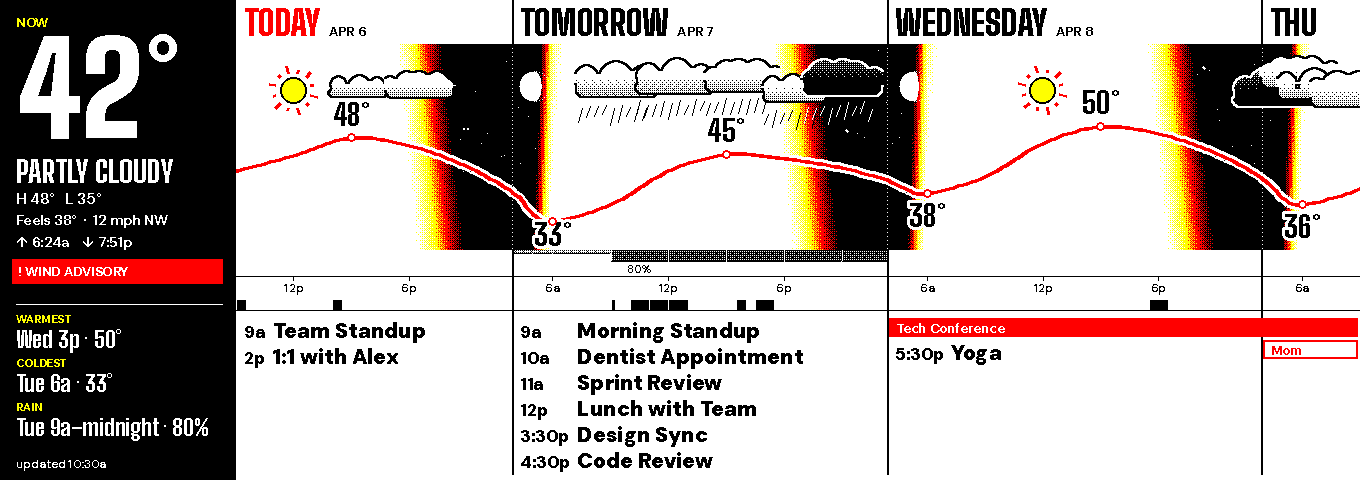
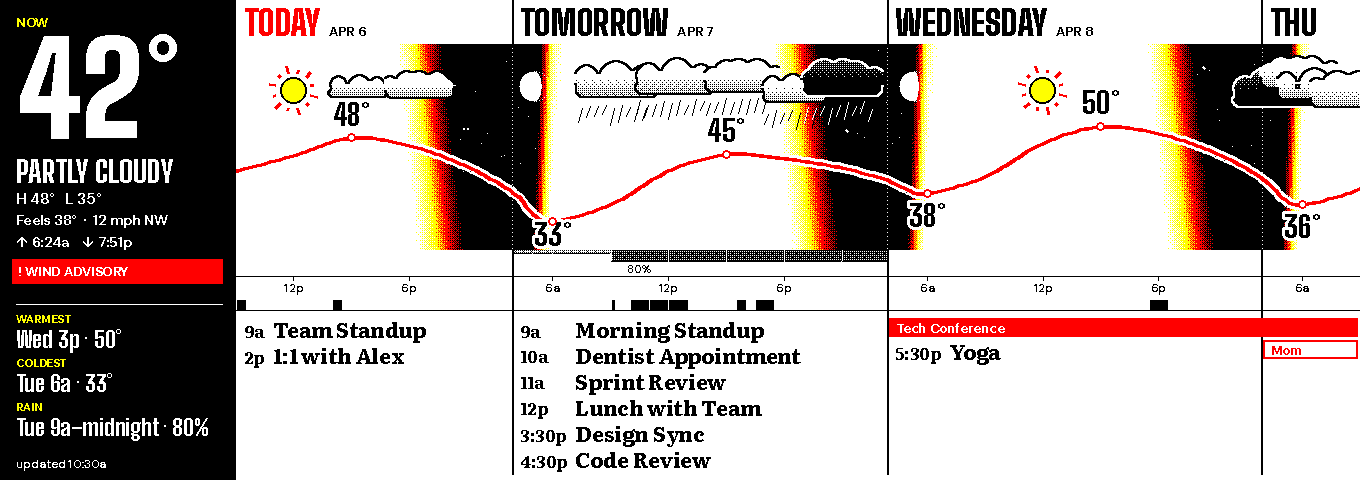
wide_horizon: set event rows in Literata Bold
DM Sans at its axis maximum was heavy but blunt. Literata Bold, the
reading serif the wide_week quote uses, keeps a 4-px stem on 21-px
titles and 3 px on 17-px times on a 1-bit plate (DM Sans Bold at 18 px
set 2 px). Times use Bold too: SemiBold snaps to 2 px below 18 px.
Drops the dm_black / dm_extrablack accessors the previous commit added.

Claude-Session: https://claude.ai/code/session_01KCiLHCYhChC1kojFWGv1dh

diff --git a/tests/test_wide_horizon_theme.py b/tests/test_wide_horizon_theme.py
@@ -662,16 +662,28 @@ class TestDayLists:
         rows = [self._list(img, day.date(), top=i * wh.ROW_H, h=wh.ROW_H) for i in range(6)]
         assert all(r > 100 for r in rows)
 
-    def test_rows_are_set_heavier_than_bold(self):
-        # Read at a glance across a room: the titles are the axis-maximum
-        # weight, which sets visibly more ink than DM Sans Bold at the same size.
+    @staticmethod
+    def _stem(font) -> int:
+        """The median width of an ``l``'s ink rows: its stem, serifs averaged out."""
+        img = Image.new("1", (60, 60), 1)
+        ImageDraw.Draw(img).text((5, 5), "l", font=font, fill=0)
+        widths = sorted(n for n in (ink(img, (0, y, 60, y + 1)) for y in range(60)) if n)
+        return widths[len(widths) // 2]
+
+    def test_rows_are_set_in_literata_with_heavy_stems(self):
+        # Read at a glance across a room: DM Sans Bold at 18 px set a 2-px stem.
+        title, time = fonts.literata_bold(wh.ROW_TITLE_PT), fonts.literata_bold(wh.ROW_TIME_PT)
+        assert self._stem(title) >= 4
+        assert self._stem(time) >= 3
+
+    def test_the_rows_draw_in_literata(self):
         evt = _event("Dentist Appointment", datetime(2026, 4, 7, 14))
         data = DashboardData(events=[evt])
         tue = date(2026, 4, 7)
-        heavy = self._list(_plate(data, mode="L").convert("1"), tue, h=wh.ROW_H)
-        with patch.object(fonts, "dm_extrablack", fonts.dm_bold):
-            bold = self._list(_plate(data, mode="L").convert("1"), tue, h=wh.ROW_H)
-        assert heavy > bold * 1.15
+        lit = self._list(_plate(data, mode="L").convert("1"), tue, h=wh.ROW_H)
+        with patch.object(fonts, "literata_bold", fonts.dm_bold):
+            dm = self._list(_plate(data, mode="L").convert("1"), tue, h=wh.ROW_H)
+        assert lit > dm * 1.15
 
     def test_a_chip_on_another_day_does_not_push_the_list_down(self):
         evt = _event("Dentist", datetime(2026, 4, 7, 14))
@@ -1032,8 +1044,6 @@ class TestFonts:
             fonts.big_shoulders_semibold,
             fonts.big_shoulders_extrabold,
             fonts.big_shoulders_black,
-            fonts.dm_black,
-            fonts.dm_extrablack,
         ],
     )
     def test_loads_and_covers_the_glyphs_used(self, accessor):

diff --git a/src/render/components/wide_horizon_panel.py b/src/render/components/wide_horizon_panel.py
@@ -108,8 +108,11 @@ ALLDAY_H = 22
 STRIP_H = 10
 STRIP_GAP = 8
 # Each day's events listed in its own column, one line apiece.
-# The heaviest DM Sans, a size up: read at a glance across a room. Six
-# rows still fill the band below the strip when no all-day chip crosses it.
+# Literata Bold, a reading serif drawn for e-readers: a 4-px stem on the
+# titles and 3 px on the times on a 1-bit plate, where DM Sans Bold set 2 px
+# and only its blunt axis maximum went heavier. SemiBold would snap the times
+# to 2 px below 18 px (as on wide_week's rail). Six rows still fill the band
+# below the strip when no all-day chip crosses it.
 ROW_H = 26
 ROW_TITLE_PT = 21
 ROW_TIME_PT = 17
@@ -1425,9 +1428,9 @@ def _draw_events(draw, data: DashboardData, axis: TimeAxis, y0: int, y1: int, in
                     )
 
     hidden_by_day = overflow_counts(hidden, axis)
-    title_font = fonts.dm_extrablack(ROW_TITLE_PT)
-    time_font = fonts.dm_black(ROW_TIME_PT)
-    more_font = fonts.dm_black(ROW_TIME_PT)
+    title_font = fonts.literata_bold(ROW_TITLE_PT)
+    time_font = fonts.literata_bold(ROW_TIME_PT)
+    more_font = fonts.literata_bold(ROW_TIME_PT)
 
     def measure_title(t: str) -> float:
         return text_width(draw, t, title_font)

diff --git a/src/render/fonts.py b/src/render/fonts.py
@@ -72,15 +72,6 @@ def dm_bold(size: int) -> ImageFont.FreeTypeFont:
     return _get_dm_sans(size, 700)
 
 
-def dm_black(size: int) -> ImageFont.FreeTypeFont:
-    return _get_dm_sans(size, 900)
-
-
-def dm_extrablack(size: int) -> ImageFont.FreeTypeFont:
-    """The axis maximum (1000): 800 and 900 hint to the same 1-bit stems as 700 at ~20 px."""
-    return _get_dm_sans(size, 1000)
-
-
 # Cinzel — Roman inscription caps, used for the D&D Fantasy theme.
 # Variable font with a single weight axis (wght 400–900).
 @lru_cache(maxsize=32)

diff --git a/CLAUDE.md b/CLAUDE.md
@@ -375,9 +375,9 @@ The cooldown is `display.min_refresh_interval_seconds` (config), defaulting to 6
 | `Oxanium-Variable.ttf` (OFL, variable) | `oxanium`, `oxanium_bold` | `terminal` — dashboard title, day column headers, quote body |
 | `Rajdhani-Regular.ttf` / `Rajdhani-SemiBold.ttf` (OFL) | `rajdhani`, `rajdhani_semibold` | `terminal` — month band, section labels, quote attribution |
 | `Orbitron-Variable.ttf` (OFL, variable) | `orbitron_black` | `terminal` — large today date numeral |
-| `DMSans.ttf` | `dm_regular/medium/semibold/bold/black/extrablack` | `wide_horizon` event rows (`dm_extrablack` titles, `dm_black` times — the axis maximum, since 800 and 900 hint to the same 1-bit stems as 700 at ~20 px), `minimalist`, `weather`, `fuzzyclock`, `diags` (section labels), `countdown`, `astronomy`, `agenda`, `light_cycle`, `constellation_map` (margin) |
+| `DMSans.ttf` | `dm_regular/medium/semibold/bold` | `minimalist`, `weather`, `fuzzyclock`, `diags` (section labels), `countdown`, `astronomy`, `agenda`, `light_cycle`, `constellation_map` (margin) |
 | `PlayfairDisplay-*.ttf` | `playfair_regular/medium/semibold/bold` | `old_fashioned`, `qotd`, `almanac` (body + quote), `wide_week` rail (masthead, temperature, NEXT time, quote mark) |
-| `Literata-SemiBold.ttf` / `Literata-Bold.ttf` (OFL; static instances at opsz 12 cut from the upstream variable font with `fonttools varLib.instancer`) | `literata_semibold`, `literata_bold` | `wide_week` rail — the quote (SemiBold ≥ 18 px, Bold below, via `wide_week_rail_panel.quote_font`) |
+| `Literata-SemiBold.ttf` / `Literata-Bold.ttf` (OFL; static instances at opsz 12 cut from the upstream variable font with `fonttools varLib.instancer`) | `literata_semibold`, `literata_bold` | `wide_week` rail — the quote (SemiBold ≥ 18 px, Bold below, via `wide_week_rail_panel.quote_font`); `wide_horizon` — event rows (Bold throughout) |
 | `Cinzel.ttf` | `cinzel_regular/semibold/bold/black` | `fantasy`, `old_fashioned` section labels, `moonphase`, `almanac` (section labels + small caps) |
 | `CormorantGaramond.ttf` / `CormorantGaramond-Italic.ttf` (OFL, variable) | `cormorant_regular/medium/semibold/italic` | `moonphase` — date, illumination, celestial + weather strips, quote body (italic) |
 | `Tangerine-Regular.ttf` (OFL) | `tangerine_regular` | `moonphase` — calligraphic script quote attribution |
@@ -504,7 +504,7 @@ default to `None` and fall back gracefully so adding a new field never breaks ex
 - **`display.scaling` decides how an off-size canvas reaches the panel** (`fit_canvas()` in `src/display/backend.py`). Every version so far stretched, and `auto` (the default) still does unless `distortion()` — the ratio between the panel's aspect and the canvas's — exceeds `FIT_DISTORTION_THRESHOLD` (4/3): a 4:3 `epd13in3k` is 1.25 and renders byte-identically to before, the 1360×480 strip is 1.7 and fits. `fit` pads with the theme's `bg`, passed to the backend as `background=` in the canvas's own mode (`pad_value()` converts it); `stretch` and `fit` are explicit overrides, and an unknown value behaves as `auto` at render time while `validate_config()` reports it. The backend tests build their config as a `MagicMock`, which is why `resolve_scaling()` treats anything but the two explicit strings as auto rather than raising.
 - **The `wide_*` themes declare a 1360×480 canvas** (`wide_week`, `wide_day`, `wide_forecast`, `wide_horizon`, `wide_night`, `wide_night_invert`, `wide_diags`, `halftone_agenda_wide`) and are the reason previews are rendered at the theme's canvas size when its *shape* differs from the panel's (`scripts/build_previews.py` swaps `cfg.display` width/height for the layout's only on an aspect mismatch — a supersampled 1600×960 canvas keeps the panel's 800×480 and its downsample) — on an 800×480 config they letterbox to a 800×282 band, which is what the pixel-snapshot and idle-tick suites hash. They are kept out of a random rotation on a panel of the other shape: `random_theme.eligible_themes(..., panel=)` drops any theme whose canvas would be fitted with padding there (`theme_fits_panel`, the same `FIT_DISTORTION_THRESHOLD` test `display.scaling: auto` applies), and `services/theme.py` and `validate_config` pass the configured panel. `OutputService` keys its default cooldown on the display spec, not the provider string, so a colour Waveshare model gets Inky's 60 s rather than the mono 0 s. `primitives.next_birthday()` is the one home of the Feb 29 → Feb 28 rollover; `birthday_bar`, `almanac`, `wide_day_panel` and `halftone_agenda_wide_panel` all call it. `wide_week` is the standard `week_view` on the right (920 px, full height, no header) beside `wide_week_rail_panel.py`, a 440-px broadsheet rail (Playfair Display, accent small-caps labels, hairline rules; section tops are fixed constants so the rules land in the same place daily) whose NOW/NEXT line is its one clock-driven element, moving only at event boundaries (hence `EXTRA_EVENT_DAYS["wide_week"] = 1`); the rail's type floor is 13 px with 16-px DM Sans **SemiBold** body rows (Medium at 13 px rasterised to hairlines), its quote is **Literata** (a reading serif drawn for e-readers; Playfair's hairlines broke up even at SemiBold) at SemiBold from 18 px and Bold below, because bilevel hinting snaps SemiBold's stems to 2 px at 16–17 px and a long quote stepping down a size would visibly thin out (`TestQuoteWeight` pins a 3-px stem at every `QUOTE_PTS` size), and `draw_wide_week_rail` sets `draw.fontmode = "1"` around the whole rail (restoring the caller's afterwards) because on the colour panels' RGB canvas antialiased glyph edges were cut at mid-grey by the four-ink snap, erasing Playfair's hairlines — `TestBilevelType` pins both; its sky rows reuse `wide_horizon_panel.sun_zone` for naive preview clocks; colour is split by ink — red (primary accent) for labels and warnings, yellow (the resolved `accent_warn`) **only as a fill behind ink type** (NOW/NEXT band, rain chips, a birthday today), never as type or rules, and `highlight()` returns `None` where `accent_warn` resolves to `fg` (mono) so the fills drop out rather than blacking the type out — the grid's `secondary_accent_fill()` colours the weekend headers' *text*, so switching the theme's secondary accent to yellow would have put yellow type in the grid; `wide_day` (`wide_day_panel.py`) packs bars into lanes by `pack_lanes()` over *bar-plus-label* pixel extents, not time spans — a thirty-minute meeting is 24 px on a sixteen-hour axis, so packing by time alone left a busy day as one lane of anonymous boxes — and is in `TIME_DRIVEN` (NOW marker) and `THEMES_NEEDING_TOMORROW` (its UP NEXT rail). `wide_forecast` (`wide_forecast_panel.py`) is idle-stable; its yellow precipitation fill is drawn only when `secondary_accent_fill()` differs from `fg` (`_tint()`), because on a monochrome plate a fill behind ink text is unreadable. All three name only red/yellow/black accents so the Inky preview and the four-ink panel agree.
 - **Art regions are the one place a colour panel dithers.** A colour backend snaps every pixel to the nearest ink (`quantize_to_palette_nearest` on the G panel, the Inky driver at write time), which flattens an illustration's gradient to one ink while the same theme's greyscale path keeps its engraving. `RenderContext.dither_regions` is a list the adapter fills from the panel's pure `art_rect(region)` (`halftone`, `halftone_agenda`, `halftone_agenda_wide` and `day_arc` declare their art panes; the panel itself never sees the list, so it stays a pure function of its inputs), and `canvas.render_dashboard` passes it to `resize_and_finalize(..., dither_regions=...)`. `backend.dither_art_regions()` maps each rectangle through `placement()` — the same arithmetic `fit_canvas` uses, so a region declared in canvas coordinates lands on the fitted or stretched plate — cuts it from the resized canvas *before* the snap, Floyd-Steinberg-diffuses it onto the inks with `quantize_to_palette_fs`, and pastes it over the snapped plate. Floyd-Steinberg, not ordered Bayer: it is what the themes' L-mode path already uses, so the engraving matches across panels, and diffusion has no error to spread on an exact ink, so a solid yellow disc stays solid where a Bayer offset would speckle it. On Inky the target palette is `INKY_SPECTRA6_PALETTE` (the driver's measured values) so the write-time nearest mapping is the identity on the region. On the G panel the art helpers still fill with the measured Spectra values (`skyart.accent_yellow`, `artkit.accent_red` don't know the panel), so `G_EXACT_REMAP` substitutes each Spectra-6 value with the G ink at the same index *before* diffusion — diffusing (208,190,71) against (255,255,0) turned a solid sun disc 47% yellow. Neutral pixels diffuse against black and white only (`NEUTRAL_SPREAD`); diffusing them against the whole palette let accumulated error drift in hue and sprinkled a night sky with coloured dots. The mixing widens the perceived gamut only *inside* the hull of the inks — orange, pink, maroon, olive and greys on the G panel — and can never produce a blue or green there. Declaring a region that contains type will speckle it; the mono `WaveshareBackend` ignores the list because its whole plate already dithers.
-- **`wide_horizon` puts the next 72 hours on one axis** (`wide_horizon_panel.py`). The window starts at `window_start(now)` — the 3-hour forecast slot holding now — so the clock moves the plate at most eight times a day and the theme stays out of `TIME_DRIVEN`; the TODAY→TONIGHT switch keys on the slot for the same reason (and `header_label()` sets today's name as a caption in the date face when its slice is too narrow for a headline — never a shrunken headline, never the short weekday), and the hero's "updated" caption reads `content_time`. `TimeAxis` is piecewise-linear by clock hour (`hour_weight`: 23:00–06:00 at `NIGHT_WEIGHT`), ~19 px per waking hour against ~16 linear. The sky's colour per column is `astronomy.solar_altitude` at that column's time plus `HORIZON_GLOW_DEG` toward the band's bottom, mapped by `sky_field()` to **ordered dithers between pairs of inks** (white/yellow, yellow/red, red/black on colour; one black/white ramp on mono) from an 8×8 Bayer phased to canvas coordinates. Everything on the plate is an exact ink — tones are dithered here and type is set with `draw.fontmode = "1"` — so the four-ink snap and the mono threshold are the identity at native size. The sky is deliberately **not** an art region: `dither_art_regions()` is not the identity on a tile of exact inks (its neutral pass Floyd-Steinbergs the tile's luminance, flipping black/white pixels beside red and yellow), so declaring it speckled the plate on the panel it was drawn for — `test_native_pipeline_changes_nothing_but_the_ink_snap` pins this. The theme declares `ordered` quantization so a *scaled mono* panel re-screens rather than flattening a blurred dither (which also derives it out of partial refresh); small type on a scaled plate comes out screened, the accepted cost of a strip theme on the wrong shape. The temperature comes from `WeatherData.hourly` (the OWM 3-hour grid, kept by `weather._parse_hourly`); `daily_extremes` labels only real turning points, since the window cuts days at both ends. OWM's grid starts at the first 3-hour **UTC** boundary after the request, so it never lines up with the local slot the window opens on; `lead_in()` fills the gap with stand-in slots carrying the current reading and icon, and `dummy_data._dummy_hourly` starts its grid the same way OWM does so previews exercise it. A slot is three hours of real time but the axis is the wall clock, so every consumer takes slot ends from `slot_spans()` (each ends where the next begins, trusted within an hour of 3 h) — `start + 3 h` left an hour of the plate blank at spring-forward and overlapped slots at fall-back. Stand-ins are the reading now held flat, so `daily_extremes` and `outlook` take `real_from` (the first real slot) and never label or report one — without it an evening plate showed its flat stand-in as the day's "high". High/low labels go through `place_label()`, which slides a label off any sun or moon box (`_draw_suns`/`_draw_moons` return boxes, not x) toward the side nearer its point. The events band is a **schedule strip** (a block per timed event over its real span, a pixel of paper either side so back-to-back meetings stay two) over **one list per day**, set in that day's midnight-to-midnight column (`day_columns()`): one line per event, start time then title (21 px `dm_extrablack` over 17 px `dm_black` in 26-px rows — six still fill the band), so labels never have to fit the ~19 px/hour axis — packing labels onto the axis staircased them into lanes and hid events while half the band sat empty. An event is listed on its start day, or the window's first day if it began earlier, where its time cell reads `–end` (`row_time()`). All-day chips are stacked by `stack_chips()`, not `pack_lanes()`: multi-day spans are seated first (longest first where they start together), and a single day takes the first free row below every span it overlaps, so a trip is never drawn under a one-day item on the same days; left-to-right packing gave row 0 to whichever chip started first. A list starts below only the all-day chips that cross its own column (`allday_depth()`). When a day has more rows than fit, or all-day chips past `ALLDAY_MAX_ROWS`, its last row is `+N more` instead of an event (`list_rows()`); a column under `MIN_COL_W` (an evening sliver) lists nothing and shows only `+N`. Clouds/rain/snow/storm/fog are drawn per slot from its icon (`sky_kind`), seeded by the slot's clock hour so they travel with the window; an overcast or wet slot hides the sun at noon and the moon at transit (`sun_hidden`), and scattered clouds keep `SUN_CLEARANCE` off both. With a naive render clock (previews, snapshots) `sun_zone()` places the sun in the whole-hour zone the longitude implies instead of UTC. `EXTRA_EVENT_DAYS["wide_horizon"] = 3`.
+- **`wide_horizon` puts the next 72 hours on one axis** (`wide_horizon_panel.py`). The window starts at `window_start(now)` — the 3-hour forecast slot holding now — so the clock moves the plate at most eight times a day and the theme stays out of `TIME_DRIVEN`; the TODAY→TONIGHT switch keys on the slot for the same reason (and `header_label()` sets today's name as a caption in the date face when its slice is too narrow for a headline — never a shrunken headline, never the short weekday), and the hero's "updated" caption reads `content_time`. `TimeAxis` is piecewise-linear by clock hour (`hour_weight`: 23:00–06:00 at `NIGHT_WEIGHT`), ~19 px per waking hour against ~16 linear. The sky's colour per column is `astronomy.solar_altitude` at that column's time plus `HORIZON_GLOW_DEG` toward the band's bottom, mapped by `sky_field()` to **ordered dithers between pairs of inks** (white/yellow, yellow/red, red/black on colour; one black/white ramp on mono) from an 8×8 Bayer phased to canvas coordinates. Everything on the plate is an exact ink — tones are dithered here and type is set with `draw.fontmode = "1"` — so the four-ink snap and the mono threshold are the identity at native size. The sky is deliberately **not** an art region: `dither_art_regions()` is not the identity on a tile of exact inks (its neutral pass Floyd-Steinbergs the tile's luminance, flipping black/white pixels beside red and yellow), so declaring it speckled the plate on the panel it was drawn for — `test_native_pipeline_changes_nothing_but_the_ink_snap` pins this. The theme declares `ordered` quantization so a *scaled mono* panel re-screens rather than flattening a blurred dither (which also derives it out of partial refresh); small type on a scaled plate comes out screened, the accepted cost of a strip theme on the wrong shape. The temperature comes from `WeatherData.hourly` (the OWM 3-hour grid, kept by `weather._parse_hourly`); `daily_extremes` labels only real turning points, since the window cuts days at both ends. OWM's grid starts at the first 3-hour **UTC** boundary after the request, so it never lines up with the local slot the window opens on; `lead_in()` fills the gap with stand-in slots carrying the current reading and icon, and `dummy_data._dummy_hourly` starts its grid the same way OWM does so previews exercise it. A slot is three hours of real time but the axis is the wall clock, so every consumer takes slot ends from `slot_spans()` (each ends where the next begins, trusted within an hour of 3 h) — `start + 3 h` left an hour of the plate blank at spring-forward and overlapped slots at fall-back. Stand-ins are the reading now held flat, so `daily_extremes` and `outlook` take `real_from` (the first real slot) and never label or report one — without it an evening plate showed its flat stand-in as the day's "high". High/low labels go through `place_label()`, which slides a label off any sun or moon box (`_draw_suns`/`_draw_moons` return boxes, not x) toward the side nearer its point. The events band is a **schedule strip** (a block per timed event over its real span, a pixel of paper either side so back-to-back meetings stay two) over **one list per day**, set in that day's midnight-to-midnight column (`day_columns()`): one line per event, start time then title (Literata Bold, 21-px titles with a 4-px stem and 17-px times with 3 px, in 26-px rows — six still fill the band; DM Sans Bold set 2 px, and its axis maximum was heavy but blunt), so labels never have to fit the ~19 px/hour axis — packing labels onto the axis staircased them into lanes and hid events while half the band sat empty. An event is listed on its start day, or the window's first day if it began earlier, where its time cell reads `–end` (`row_time()`). All-day chips are stacked by `stack_chips()`, not `pack_lanes()`: multi-day spans are seated first (longest first where they start together), and a single day takes the first free row below every span it overlaps, so a trip is never drawn under a one-day item on the same days; left-to-right packing gave row 0 to whichever chip started first. A list starts below only the all-day chips that cross its own column (`allday_depth()`). When a day has more rows than fit, or all-day chips past `ALLDAY_MAX_ROWS`, its last row is `+N more` instead of an event (`list_rows()`); a column under `MIN_COL_W` (an evening sliver) lists nothing and shows only `+N`. Clouds/rain/snow/storm/fog are drawn per slot from its icon (`sky_kind`), seeded by the slot's clock hour so they travel with the window; an overcast or wet slot hides the sun at noon and the moon at transit (`sun_hidden`), and scattered clouds keep `SUN_CLEARANCE` off both. With a naive render clock (previews, snapshots) `sun_zone()` places the sun in the whole-hour zone the longitude implies instead of UTC. `EXTRA_EVENT_DAYS["wide_horizon"] = 3`.
 - **`wide_night` gets its red from the primary accent, not from `bg`.** `_resolve_style()` only maps `fg`/`bg` to black or white, so a red ground cannot be declared as a style colour. The theme is a dark-canvas plate (`fg=1, bg=0` — which also derives it out of partial refresh and pads a letterboxed plate dark), and `wide_night_panel.colours()` fills the region with `primary_accent_fill()` and draws the marks in `bg` whenever the accent differs from `fg`; on monochrome the accent collapses onto `fg`, so it falls back to white-on-black. Marks are sized to one shared height by `fit_height()` — up to 80% of the plate, but in practice the row's width sets it — with a minimum gap proportional to the height (`MIN_GAP_FRACTION = 0.9`, the knob for the plate's overall size; a fixed gap is overtaken by the space inside `42°` as marks grow). Labels are a fixed `LABEL_PT`, tracked by hand (`tracked_width()` / `_draw_label()`, since PIL has no letter-spacing), and the marks' centre sits above the midline by half the label band so the group is centred. **Measure with `ink_box()`, not `textbbox()`**: for the weather-icons face `textbbox` returns the glyph's whole cell — every moon phase reports the full disc — so spacing by it leaves a crescent's gap on the wrong side. The moon glyphs ink only the lit part (the new-moon glyph is just a ring); the plate draws the lit part alone, with no outline on the dark limb, so a new moon shows nothing. The ring is still used to size the moon (so the disc is the shared height) and centre it vertically. Excluded from the random pool (a night plate drawn at noon is a surprise), `repaint_slot_hours=1`. `wide_night_invert` is the same layout via `dataclasses.replace` with `draw_order=["wide_night_invert"]` — a second component on the same `wide_night` region that calls `draw_wide_night(..., invert=True)`, which swaps `colours()`' ground and ink.
 - **`wide_diags` reads the panel's ink set off the resolved style.** It is the `diags` component on a `diags` region of `(0, 0, 800, 480)` plus `wide_diags_panel.py` on a new `ThemeLayout.wide_diags` region beside it (`draw_order=["diags", "wide_diags"]`). The theme leaves every accent role unset, so `_resolve_style()` fills them from the panel's palette; `panel_inks()` takes `fg`, `bg`, `accent_warn/alert/info/good` and keeps the first of each value — on the G panel blue and green resolve to black and drop out (four inks), on Inky all six survive, on monochrome every accent collapses onto `fg` (two). Ramps and textures are Bayer-screened by the panel in exact inks (`bayer_field` from `wide_horizon_panel`, phased to canvas coordinates) with `draw.fontmode = "1"`, so the colour snap is the identity on them — `test_g_swatches_reach_the_panel_as_drawn` pins that against a direct draw. The DIFFUSED row is the one art region (`diffused_rect()`, appended to `dither_regions` by the adapter): a hue sweep over a grey ramp the colour backend Floyd-Steinbergs; on a `"1"` canvas the panel pastes the grey ramp pre-dithered by PIL. `preferred_quantization_mode="ordered"` derives it out of partial refresh. It is in `ALWAYS_LIVE` in the idle-tick test (live host metrics, like `diags`) and excluded from the pool.
 - **`halftone_agenda_wide` is `halftone_agenda` drawn for the strip, not a copy of it.** `halftone_agenda_wide_panel.py` imports the original's `_draw_weather_band`, `_sun_times`, `_clock`, `event_times`, `inline_range`, `two_line_time_fits`, `past_screen` and `_location_text` (private names, deliberately — the two plates must read out the same things, and a second copy of the band or the time-cell rules would drift). The agenda pane itself is this plate's own (`_draw_wide_agenda`), and it deliberately has **no state treatments** — no perforated past rows, no inverted running event, no next-up accent, no `NEXT` figure in the header: on the four-ink panel every repaint is a twenty-second colour flash and each treatment repaints at every event boundary, so the day is shown whole and the same from dawn to dusk, with the after-dark rollover the one clock-driven change (one repaint a day). `tests/test_halftone_agenda_wide_theme.py` pins that a render before, during and after an event is byte-identical. Colour keys on the *kind* of event instead — a timed event's tick is `artkit.accent_yellow_solid`, an all-day event's `accent_red` (outlined in ink on mono, where both accents are ink) — which costs no repaints; the colour-panel variant of that test pins it. Use `accent_yellow_solid`, not `skyart.accent_yellow`, for marks and type: the latter's L-mode fallback is a light grey that `harden_typeset` snaps to paper. What 520 px of width pays for — a header dateline with the day's totals (`booked_minutes` counts overlaps once), a **schedule strip** (`_draw_schedule_strip`, solid blocks whatever the hour), a duration column, `— Nh Nm free` gap markers between events at least `GAP_MIN_MINUTES` apart (`gap_after` measures from the latest end so far, so a long event swallowing a short one reports no phantom gap), and time cells in **Antonio** (condensed, so titles gain the width). Its tiers are `_WIDE_TIERS`, chosen by `wide_metrics()` on rows *plus* gap markers, which are dropped before the type shrinks past 18 px. It adds the third pane: a rail with an alert bar, the next day's events, the forecast, birthdays, and an air-and-moon foot anchored to the rail's bottom (`FOOT_H`) so it can never be pushed off by a long birthday list — the birthdays cell takes whatever is left above it. The rail shows the day after tomorrow once the agenda has rolled over, so the theme needs two extra days of events: `src/app.py` now carries `EXTRA_EVENT_DAYS` (theme → days past the standard week) with `THEMES_NEEDING_TOMORROW` derived from its keys, and `_event_window_for_theme` returns `7 + extra`. Rail rows are 24 px with a 14-pt Righteous label over a 3-px Bayer rule; the whole rail is hardened like the agenda pane. It is in `DECLINES_PARTIAL` in `tests/test_theme_partial_refresh.py` for the same reason its sibling is.

diff --git a/CHANGELOG.md b/CHANGELOG.md
@@ -77,12 +77,11 @@ The format is based on [Keep a Changelog](https://keepachangelog.com/).
   took the top row and pushed the trip under it. Spans are now seated first,
   and a single day goes below every span it overlaps; a day no span crosses
   still uses the top row.
-- **`wide_horizon` event rows are heavier.** Titles are DM Sans at its axis
-  maximum weight (1000) at 21 px and times weight 900 at 17 px, up from Bold
-  18 px over SemiBold 15 px; rows grow to 26 px and a full day still shows
-  six. Weights 800 and 900 at this size hint to the same 1-bit stems as Bold,
-  which is why the step goes to the maximum. New accessors `fonts.dm_black`
-  and `fonts.dm_extrablack`.
+- **`wide_horizon` event rows are set in Literata Bold.** Titles are 21 px
+  and times 17 px, up from DM Sans Bold 18 px over SemiBold 15 px, in 26-px
+  rows, so a full day still shows six. On a 1-bit plate the title stem goes
+  from 2 px to 4; the reading serif the `wide_week` quote already uses keeps
+  its weight where the sans faces hint thin.
 
 - **`wide_horizon` lists each day's events instead of hanging labels on the
   time axis.** A waking hour is about 19 px wide and a label about 150, so
